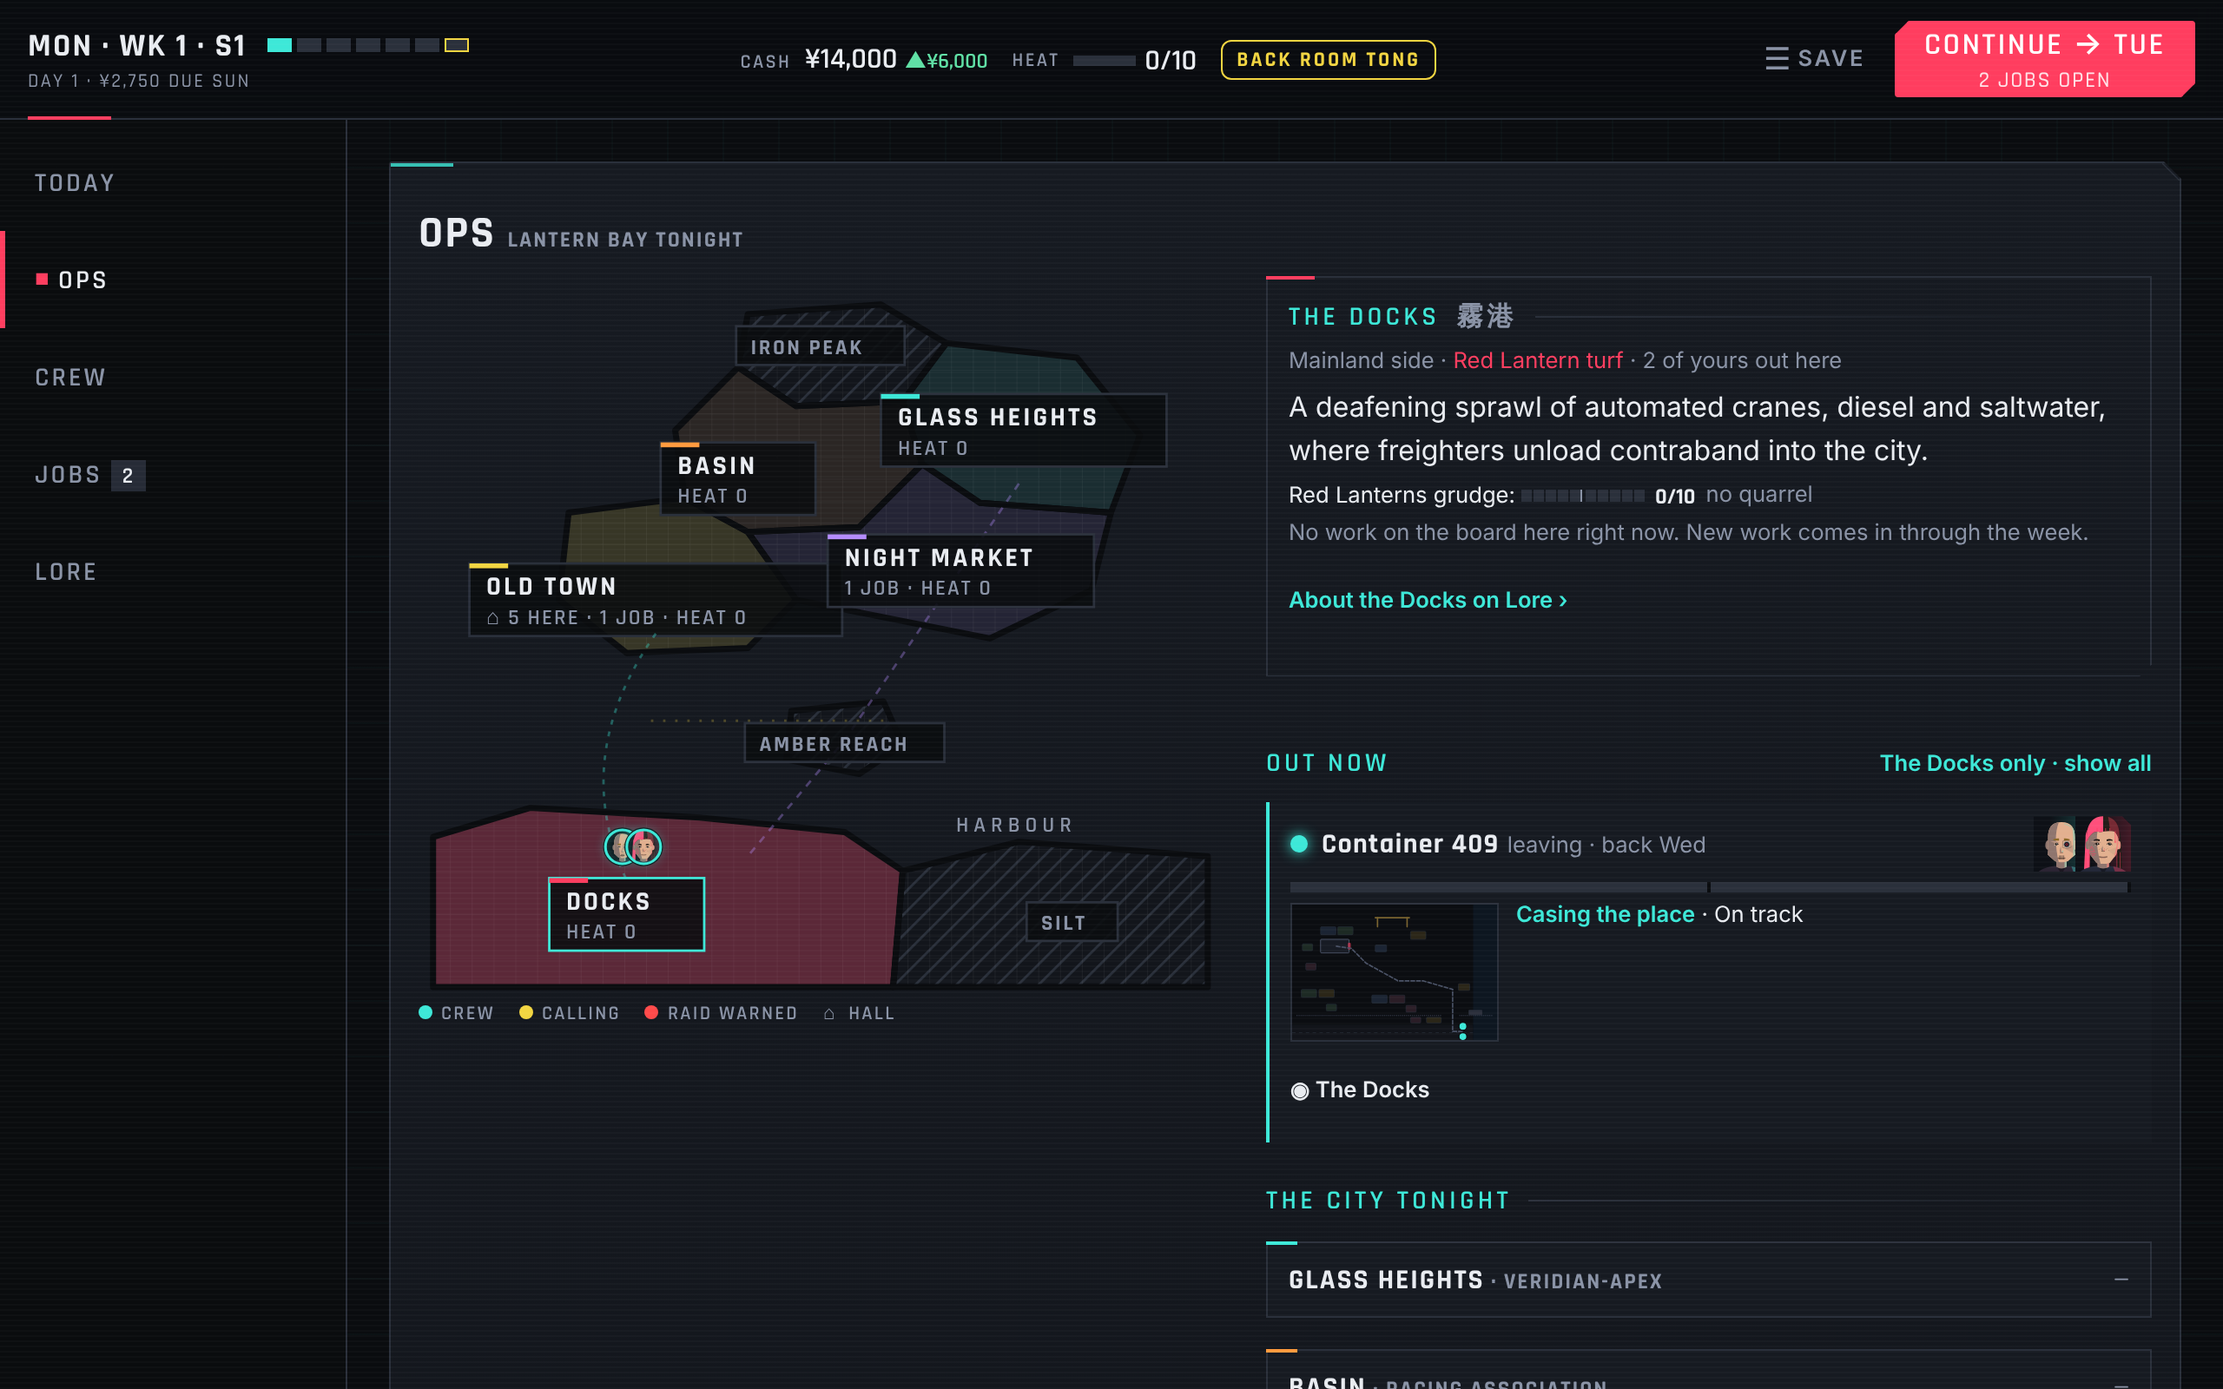
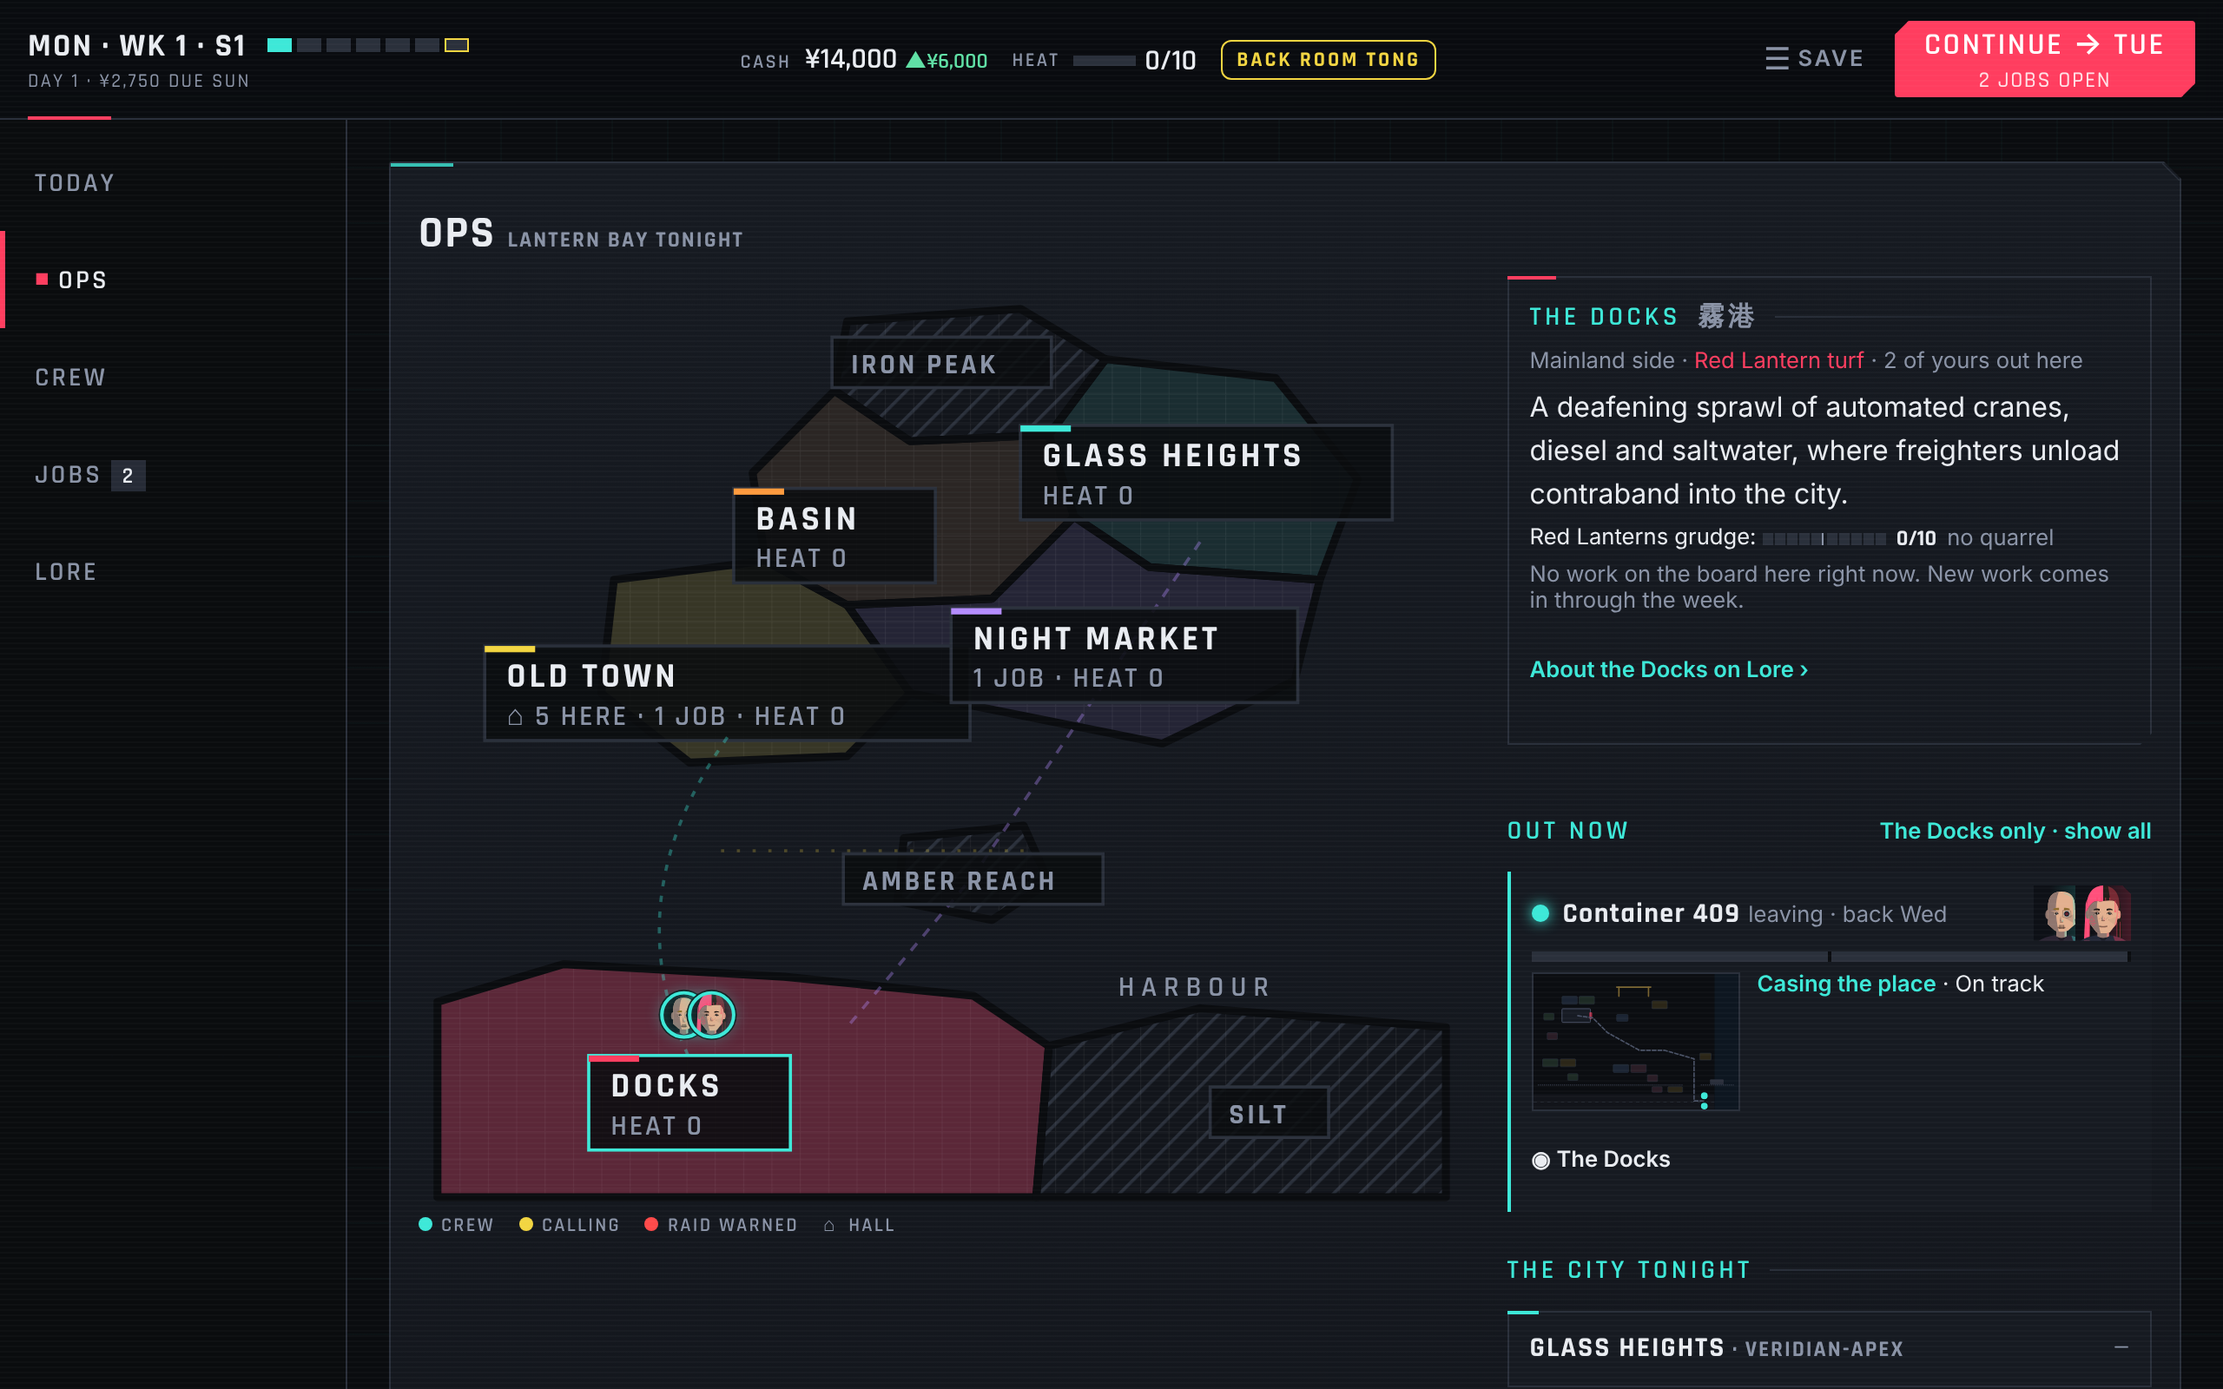
A bigger Ops map on tablets and computers
Up to 60% of the width from 900px, sized to the screen height less 230px; 760px wide on tablets
in portrait. Ops shots re-taken.

diff --git a/src/ui/styles.css b/src/ui/styles.css
@@ -288,10 +288,12 @@ h2 { font-size: 0.85rem; text-transform: uppercase; letter-spacing: 0.08em; colo
   .list--cols { grid-template-columns: repeat(auto-fill, minmax(360px, 1fr)); gap: 8px; }
   .cols2 { display: grid; grid-template-columns: minmax(0, 1fr) minmax(0, 1fr); column-gap: 28px; align-items: start; }
   .cols2--flow { grid-template-columns: repeat(auto-fill, minmax(300px, 1fr)); }
-  /* City map: the map's column is only as wide as the map draws (its height cap × 330/290,
-     see .citymap below), so the district card sits right beside it instead of across a gap. */
-  .cols2--map { grid-template-columns: min(460px, calc(max(360px, 100dvh - 300px) * 330 / 290)) minmax(0, 1fr); }
-  .cols2--map { grid-template-columns: min(460px, calc(max(360px, 100svh - 300px) * 330 / 290)) minmax(0, 1fr); }
+  /* Ops map: the map's column is only as wide as the map draws (its height cap × 330/290,
+     see .citymap below), so the district card sits right beside it instead of across a gap.
+     Bigger since Ops got its own tab (owner, 2026-11-06): up to 60% of the width, the card
+     column never under 340px. */
+  .cols2--map { grid-template-columns: min(60%, calc(max(400px, 100dvh - 230px) * 330 / 290)) minmax(340px, 1fr); }
+  .cols2--map { grid-template-columns: min(60%, calc(max(400px, 100svh - 230px) * 330 / 290)) minmax(340px, 1fr); }
   /* Planning a job: approach, squad and orders on the left; client and the reads beside them, so the risk updates in view as you pick. */
   .plangrid { display: grid; grid-template-columns: minmax(0, 3fr) minmax(0, 2fr); grid-template-rows: auto auto 1fr; column-gap: 28px; align-items: start;
     grid-template-areas: "approach client" "crew risk" "orders risk"; }
@@ -539,7 +541,7 @@ h2 { font-size: 0.85rem; text-transform: uppercase; letter-spacing: 0.08em; colo
    after the owner's mock-up drafts/prototypes/command-centre.html). Faceted districts in their
    gang's light at dark seams, a faint block grid, transit; then heat glows, crews out as faces,
    calls pulsing sodium, raid rings. Only calls and raids move; that stops too for reduced motion. */
-.citymap { display: block; width: 100%; max-width: 520px; margin: 8px auto 6px; touch-action: manipulation; }
+.citymap { display: block; width: 100%; max-width: 760px; margin: 8px auto 6px; touch-action: manipulation; }
 .citymap text { font-family: var(--display); pointer-events: none; }
 .cm-d { cursor: pointer; }
 .cm-d:focus { outline: none; }
@@ -606,7 +608,9 @@ h2 { font-size: 0.85rem; text-transform: uppercase; letter-spacing: 0.08em; colo
    hides its bars on scroll, which made the map and the picture beside it grow mid-scroll
    (owner, iPad, 2026-10-29). The dvh lines are the fallback for browsers without svh. */
 .citymap { max-height: max(300px, calc(100dvh - 400px)); max-height: max(300px, calc(100svh - 400px)); }
-@media (min-width: 900px) { .citymap { max-height: max(360px, calc(100dvh - 300px)); max-height: max(360px, calc(100svh - 300px)); } }
+/* Ops has no section tabs (2026-11-06), so the map takes that room back. */
+@media (min-width: 600px) and (max-width: 899px) { .citymap { max-height: max(360px, calc(100dvh - 340px)); max-height: max(360px, calc(100svh - 340px)); } }
+@media (min-width: 900px) { .citymap { max-width: none; max-height: max(400px, calc(100dvh - 230px)); max-height: max(400px, calc(100svh - 230px)); } }
 .citycard ul { margin-top: 0; }
 .citydetails { border: 1px solid var(--line); border-radius: var(--radius); padding: 0 12px; margin-bottom: 6px; }
 .citydetails summary { min-height: var(--tap); display: flex; align-items: center; cursor: pointer; font-weight: 600; }

diff --git a/docs/design/2026-11.md b/docs/design/2026-11.md
@@ -4,6 +4,7 @@ Part of the decision log kept in `DESIGN.md`. Supersede with a new row at the to
 
 | Date | Decision | Why | Rejected alternatives |
 | --- | --- | --- | --- |
+| 2026-11-06 | **The Ops map is bigger on tablets and computers (same PR).** From 900px wide its column takes up to 60% of the width (the card column at least 340px), and the map fills it up to the screen's height less 230px (was 300px: Ops has no section tabs). On tablets in portrait it can reach 760px wide (was 520px). Measured: iPad portrait 520→694px wide, iPad landscape 460→539, a laptop (1280×800) 460→599, a big screen 460→671; phones unchanged. It still fits one screen with its legend. | Owner: "now the ops map is out could it be a bit bigger on desktop and tablet?" It was sized to share City with its tabs and the card. | Filling the full width on wide screens (the card and Out now would drop below it). |
 | 2026-11-06 | **Ops comes second in the tabs, and City is renamed Lore (same day, before merging; refines the row below).** The tabs read Today · Ops · Crew · Jobs · Lore. Lore's sections: Districts, Clients, Who's who, **History** (the old Lore section: Everyone knows, the short history; renamed so it isn't Lore › Lore). The section is still headed Lantern Bay 燈籠灣 2057. Links read "About the Docks on Lore ›". | Owner: "is it misleading should the whole section be Lore" and "should Ops be higher". City read as the live map, which is what the split was for; Lore says it's for reading. Ops is where you go most after Today (calls, crews out, raids), so it sits next to it, and the reference goes last. Crew and Jobs keep their order so nothing else moves. | A sub-section named City inside Lore (Districts says what's in it); reordering Crew and Jobs too. |
 | 2026-11-06 | **Ops becomes its own tab; City becomes the lore book again (built; no save change; supersedes the 2026-11-05 call to keep the command centre on City).** Five tabs: Today · Crew · Jobs · **Ops** · City. **Ops** is the command centre as it was on City's Map tab: the neon map, the picked district's card (live only: side, turf, heat, our hall and who lives there, grudges, jobs here, street talk, and "About the Docks on City ›"), Out now and the city tonight. It carries the count of calls waiting; sending a crew out, handing a call back and Today's "crews out" line all go there. **City** has Districts (new, first), Clients, Who's who and Lore. **Districts:** a card per district led by its picture (`ui/districtArt.js`, all five drawn 2026-10-29), the home district first, with its name, side, turf and pitch; tap for the rest (who runs it, police, at 3am, custom, landmarks, kinds of work, "See it on Ops ›"). The locked three follow with their write-up and what the street says (no picture yet). The pictures leave the Ops card. On a phone the tab labels are set a little tighter so five fit. | Owner: City "more seems like lore"; "make ops a separate one and make city a proper lore section like it was before. We can bring those portraits back in for the areas." The live parts and the reading parts were sharing one tab; split, Ops stays short on a phone and the pictures get room. Clients and Who's who stay on City although they show trust and grudges: they're who people are, read when deciding. | Renaming City to Ops and moving Lore behind ☰ (hides the lore); keeping the pictures on the Ops card too (pushes the map's list down a picture's height on a phone); one district at a time behind chips (the pictures are the point: a scroll of them reads like a guidebook). |
 | 2026-11-06 | **Buying a hall and the work board (built; save v44).** **Buying** (`core/halls.js buyHall`, `HALL_BUY.weeks` 26): a hall can be bought for 26 weeks of its current rent, once. Its rent goes to 0 and expanding it adds none (`hall.owned`). Every hall can be bought, the home hall too. **The work board** (a 2 × 2 room, ¥8,000, `core/broker.js`): each Sunday, before the bills, a hall with one brokers its district's small work (its routine and rookie jobs, never an opening job) to street freelancers: as many as the hall's level, each paying the tong 20% of the job's pay. It's background work: nothing on the tong's board is taken, and nobody of ours goes. 1 in 10 goes wrong (no fee, that client's trust −2). Each week there's a 15% chance a freelancer who did well becomes a rookie recruit lead. A shut hall brokers nothing. Sunday's message says what each board brought. **Measured** (`scripts/sim-phase2.mjs`, 16 seeds, the careful player, week 52): opening halls alone ¥13,290 and 31% broke; with work boards ¥16,230 and 25%; with work boards and buying ¥16,840 and 25%, and a third hall more often (12 halls bought, 31 boards built). The sim's player only acts with money to spare (a board with a week of bills left, a hall with two weeks). Tests: `tests/hallbuy.test.js`. | The owner: buy rather than rent ("for a higher cost potentially": 26 weeks' rent), and passive income as a tong would have it: "middle man jobs ... these rookies and solo guys would be coming here to take on work that we give them", and not the jobs on the board ("so it doesn't compete with our workable jobs"). | A shop, a back-room game or a lending desk ("the rest don't really make sense for a tong"); brokering the board's own offers (it would compete with the player's crews); buying in place of the deposit (a much dearer opening). |

diff --git a/DESIGN.md b/DESIGN.md
@@ -65,7 +65,7 @@ The log is split by date into `docs/design/` (newest file first). **Add new rows
 
 | File | Rows | Themes |
 | --- | --- | --- |
-| [`docs/design/2026-11.md`](docs/design/2026-11.md) | 73 | 2026-11: Ops as its own tab (second) and City renamed Lore, the lore book again; buying a hall and the work board; balance tuning (rents, raids); a Phase 2 balance pass, measured; opening jobs built; the opening jobs outlined, replaying a day skipped; mini maps on the crew-out cards; building up a hall (the grid and defence pieces, the build screen, defences lowering a raid's threat, rooms, the den and the cyber doc, the auto turret); the landmarks beside the halls and raids; a hall map per district; gang raids and their canon; the command centre's map, part 2 (the neon map); raids on the halls (police first) and their canon; the plan bar beside the job list; City as the command centre (part 1); heat per district; halls (the safehouse as one of several; moving in takes the day); Joss's lean picks and what a job gives a runner; crews out made visible; districts as presence and a command centre (proposed); Joss's warmer lines and voice in canon; the week's first offer is routine; the weekly rhythm, crew standards and leads; routine work on a bigger board; lore reading and review; the fame sim's cash baseline re-measured for the bigger job pool; new named people and a canon check; quality guidance in the job prompt; routine work in the job prompt; the board growing with the tong, jobs' days; away crews calling in, day by day; the tong and its ranks; the tong direction and its Phase 1 calls; hands-off on every job; walking away from a decision pays nothing; runner record; milestones; a prompt for drafting jobs outside a session; a job checker; fame, standing, paths and pro-to-veteran promotion; the add-lore skill; traits as chips, synergies; the job takes the full screen; the job's map fills the height; the feed keeps following, a finished job keeps its view; the feed column matches the map; the fight camera frames everyone; the fight panel as a compact roster; Elite made rarer; the fight on a phone; fame's payoffs (named offers, the fame pay ask, better recruits); a shorter planning read |
+| [`docs/design/2026-11.md`](docs/design/2026-11.md) | 74 | 2026-11: a bigger Ops map; Ops as its own tab (second) and City renamed Lore, the lore book again; buying a hall and the work board; balance tuning (rents, raids); a Phase 2 balance pass, measured; opening jobs built; the opening jobs outlined, replaying a day skipped; mini maps on the crew-out cards; building up a hall (the grid and defence pieces, the build screen, defences lowering a raid's threat, rooms, the den and the cyber doc, the auto turret); the landmarks beside the halls and raids; a hall map per district; gang raids and their canon; the command centre's map, part 2 (the neon map); raids on the halls (police first) and their canon; the plan bar beside the job list; City as the command centre (part 1); heat per district; halls (the safehouse as one of several; moving in takes the day); Joss's lean picks and what a job gives a runner; crews out made visible; districts as presence and a command centre (proposed); Joss's warmer lines and voice in canon; the week's first offer is routine; the weekly rhythm, crew standards and leads; routine work on a bigger board; lore reading and review; the fame sim's cash baseline re-measured for the bigger job pool; new named people and a canon check; quality guidance in the job prompt; routine work in the job prompt; the board growing with the tong, jobs' days; away crews calling in, day by day; the tong and its ranks; the tong direction and its Phase 1 calls; hands-off on every job; walking away from a decision pays nothing; runner record; milestones; a prompt for drafting jobs outside a session; a job checker; fame, standing, paths and pro-to-veteran promotion; the add-lore skill; traits as chips, synergies; the job takes the full screen; the job's map fills the height; the feed keeps following, a finished job keeps its view; the feed column matches the map; the fight camera frames everyone; the fight panel as a compact roster; Elite made rarer; the fight on a phone; fame's payoffs (named offers, the fame pay ask, better recruits); a shorter planning read |
 | [`docs/design/2026-10-28-to-30.md`](docs/design/2026-10-28-to-30.md) | 54 | 2026-10-28 to 2026-10-30: gear, specialisations, sites, district art, offline play, battles and command fights, sidearms |
 | [`docs/design/2026-10-26-to-27.md`](docs/design/2026-10-26-to-27.md) | 43 | 2026-10-26 to 2026-10-27: mission logs, hands-off runs, traits, situations, side tasks, money pressure, the squad run (approaches, incidents, overwatch, wheels, standby) |
 | [`docs/design/2026-10-24-to-25.md`](docs/design/2026-10-24-to-25.md) | 75 | 2026-10-24 to 2026-10-25: development, renewals, pricing, world canon, progression and the rookie start, UI skin and portraits |

diff --git a/CHANGELOG.md b/CHANGELOG.md
@@ -12,6 +12,7 @@ Live build: https://marcusw9.github.io/syndicate-manager/
 - **Ops, the new second tab:** the city map, everyone out, raids and calls, and the city tonight (what City's Map tab was). The count of calls waiting is on it, and sending a crew out lands there.
 - **City is renamed Lore**, and is about the city again: a new **Districts** section comes first, a card per district led by its picture (the Docks' cranes, Old Town's alleys, the Night Market's neon, Glass Heights' towers, the Basin's racecourse). Tap one for who runs it, the police, the night, the local custom and the landmarks. The three districts not open yet follow, with what the street says about them. Then Clients, Who's who, and History (what the Lore section was).
 - A district picked on the Ops map links to its write-up on Lore, and back.
+- **The Ops map is bigger on tablets and computers:** about a third larger, and still on one screen.
 
 ## 2026-11-06 · Buy a hall, and a work board
 - **A hall can be bought outright:** 26 weeks of its rent, once. After that it pays no rent, and making it bigger adds none. Crew › Halls has "Buy the place" on each hall; a bought hall is marked ours. The home hall can be bought too.
